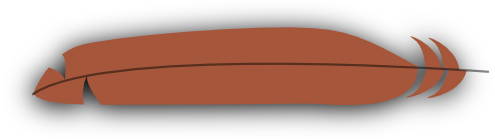
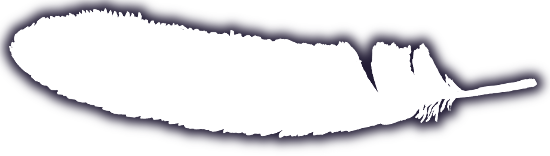
new styles, feathers and backgrounds

diff --git a/js/static.js b/js/static.js
@@ -818,7 +818,7 @@ ret\n\
             ;;(console.log (+ "loaded " (+ "images/" fn)))\n\
             (set! image-lib (cons (list fn image) image-lib))\n\
             (ctx.clearRect 0 0 screen-width screen-height)\n\
-            (set! ctx.font "normal 75pt gnuolane")\n\
+            (set! ctx.font "normal 75pt sans")\n\
             (centre-text ctx "Loading..." 240)\n\
             (centre-text\n\
              ctx\n\
@@ -901,7 +901,7 @@ ret\n\
             image.width\n\
             image.height\n\
             jitter callback image-name\n\
-            (rndf)))))\n\
+            (rndf))))\n\
 \n\
 (define (circle-button name x y r callback)\n\
   (list "circle-button" name x y r r #f callback #f (rndf)))\n\
@@ -992,14 +992,14 @@ ret\n\
    (find-image (button-image b) image-lib)\n\
    0 0)\n\
 \n\
-  (set! ctx.fillStyle "#fff")\n\
-  (set! ctx.font "bold 30pt gnuolane")\n\
+  (set! ctx.fillStyle "#221c35")\n\
+  (set! ctx.font "bold 40pt sans")\n\
 \n\
   (let ((m (ctx.measureText (button-name b))))\n\
     (ctx.fillText\n\
      (button-name b)\n\
      (- (/ (button-w b) 2) (/ m.width 2))\n\
-     (+ (/ (button-h b) 2) 5)))\n\
+     (+ (/ (button-h b) 2) 20)))\n\
   (ctx.restore))\n\
 \n\
 \n\
@@ -1153,8 +1153,8 @@ ret\n\
 \n\
 ;(define screen-width 1024)\n\
 ;(define screen-height 768)\n\
-(define screen-width (* 1024 1.3))\n\
-(define screen-height (* 768 1.3))\n\
+(define screen-width 1774)\n\
+(define screen-height 998)\n\
 \n\
 \n\
 (define load-time (js "new Date()"))\n\
@@ -1168,6 +1168,9 @@ ret\n\
 ; nightjar specific stuff\n\
 \n\
 (js ";")\n\
+\n\
+(define bg-col "#221c35")\n\
+(define highlight-col "#f3dd6d")\n\
 \n\
 (define filenames\n\
   (list\n\
@@ -1343,7 +1346,7 @@ ret\n\
 \n\
 (define nightjar-examples (build-examples (- (length photos) 1)))\n\
 \n\
-(define safe-x 0.2)\n\
+(define safe-x 0.3)\n\
 (define safe-y 0.4)\n\
 \n\
 (define (generate-image-pos)\n\
@@ -1384,23 +1387,46 @@ ret\n\
 (define (nightjar-modify-total-score v g) (list-replace g 11 v))\n\
 \n\
 (define (nightjar-heading ctx txt)\n\
-  (set! ctx.fillStyle "#000")\n\
-  (set! ctx.font "normal 75pt stefanie")\n\
+  (set! ctx.fillStyle bg-col)\n\
+  (set! ctx.font "bold 75pt sans")\n\
   (ctx.save)\n\
-  (ctx.translate 4 4)\n\
-  (wrap-text ctx txt 100 200 1000 100)\n\
+  (ctx.translate 8 8)\n\
+  (wrap-text ctx txt 100 200 1500 100)\n\
   (ctx.restore)\n\
-  (set! ctx.fillStyle "#fff")\n\
-  (set! ctx.font "normal 75pt stefanie")\n\
-  (wrap-text ctx txt 100 200 1000 100))\n\
+  (set! ctx.fillStyle highlight-col)\n\
+  (set! ctx.font "bold 75pt sans")\n\
+  (wrap-text ctx txt 100 200 1500 100))\n\
 \n\
+(define (nightjar-top-text ctx txt)\n\
+  (set! ctx.fillStyle "#fff")\n\
+  (set! ctx.font "bold 40pt sans")\n\
+  (wrap-text ctx txt 100 200 1300 70))\n\
 \n\
 (define (nightjar-text ctx txt)\n\
-  (set! ctx.font "bold 25pt gnuolane")\n\
-  (wrap-text ctx txt 100 400 1000 50))\n\
+  (set! ctx.fillStyle bg-col)\n\
+  (set! ctx.font "bold 40pt sans")\n\
+  (ctx.save)\n\
+  (ctx.translate 8 8)\n\
+  (wrap-text ctx txt 100 400 1300 70)\n\
+  (ctx.restore)\n\
+  (set! ctx.fillStyle "#fff")\n\
+  (set! ctx.font "bold 40pt sans")\n\
+  (wrap-text ctx txt 100 400 1300 70))\n\
+\n\
+(define (nightjar-small-top-text ctx txt)\n\
+  (set! ctx.fillStyle highlight-col)\n\
+  (set! ctx.font "bold 30pt sans")\n\
+  (wrap-text ctx txt 100 200 1400 70))\n\
+\n\
+(define (nightjar-small-text ctx txt)\n\
+  (set! ctx.fillStyle highlight-col)\n\
+  (set! ctx.font "bold 30pt sans")\n\
+  (wrap-text ctx txt 100 400 1400 70))\n\
+\n\
 \n\
 (define (nightjar-all-text ctx txt)\n\
-  (set! ctx.font "bold 50pt gnuolane")\n\
+  (set! ctx.fillStyle "#fff")\n\
+  (set! ctx.font "bold 50pt sans")\n\
   (wrap-text ctx txt 100 200 1000 75))\n\
 \n\
 (define (time-left c)\n\
@@ -1418,6 +1444,40 @@ ret\n\
    true)\n\
   (ctx.closePath))\n\
 \n\
+(define introbg-canvas   \n\
+  (let ((tcanvas (document.createElement "canvas")))\n\
+    (set! tcanvas.width screen-width)\n\
+    (set! tcanvas.height screen-height)\n\
+    tcanvas))\n\
+\n\
+(define introbg-ctx (introbg-canvas.getContext "2d")) \n\
+\n\
+(define (draw-random-feather)\n\
+  (introbg-ctx.drawImage \n\
+   (find-image (+ "col-feather-" (+ (random 10) 1) ".png") image-lib)\n\
+   (- (random (+ screen-width 100)) 10)\n\
+   (- (random screen-height) 200)))\n\
+\n\
+(define (splat-feathers c)\n\
+  (when (not (zero? c))\n\
+	(draw-random-feather)\n\
+	(splat-feathers (- c 1))))\n\
+ \n\
+(define (darken-feathers)\n\
+  (set! introbg-ctx.globalAlpha 0.4)\n\
+  (set! introbg-ctx.fillStyle "#000")\n\
+  (introbg-ctx.fillRect 0 0 screen-width screen-height)\n\
+  (set! introbg-ctx.globalAlpha 1))\n\
+\n\
+(define (draw-feather-array ctx x y a)\n\
+  (when (not (null? a))\n\
+	(let ((img (find-image (+ "col-feather-" (car a) ".png") image-lib))) \n\
+	  (ctx.drawImage \n\
+	   img\n\
+	   x (- y img.height))\n\
+	  (draw-feather-array ctx (+ x 80) y (cdr a)))))\n\
+\n\
+\n\
 (define (nightjar-draw-clock ctx c)\n\
   (set! ctx.lineWidth 4)\n\
   (set! ctx.strokeStyle "#000")\n\
@@ -1433,7 +1493,7 @@ ret\n\
 \n\
   (set! ctx.lineWidth 1)\n\
   (set! ctx.fillStyle "#fff")\n\
-  (set! ctx.font "normal 30pt gnuolane")\n\
+  (set! ctx.font "normal 30pt sans")\n\
   (ctx.fillText (Math.floor (- game-time-allowed (time-left c))) 54 110))\n\
 \n\
 (define (nightjar-new-game c)\n\
@@ -1491,26 +1551,75 @@ ret\n\
      (empty-nightjar-data))\n\
    (game-modify-render\n\
     (lambda (ctx)\n\
-      (nightjar-heading ctx "Where is that nightjar")\n\
-      (nightjar-text ctx "Hunt nightjars and help us with our research")\n\
+      (ctx.drawImage introbg-canvas 0 0)\n\
+      (nightjar-heading ctx "Where is that nightjar?")\n\
+      (nightjar-text ctx "Nightjars are nocturnal birds that use camouflage to say hidden during the day. See how fast you are at spotting them...")\n\
       )\n\
 \n\
     (game-modify-buttons\n\
      (list\n\
       (image-button\n\
        "Play"\n\
-       default-button-x\n\
+       (- default-button-x 300)\n\
        default-button-y\n\
        #t\n\
        (feather)\n\
        (lambda (c)\n\
          (play-sound "sound/button.wav")\n\
          (nightjar-explain-screen c)))\n\
+\n\
+      (image-button\n\
+       "The science"\n\
+       (+ default-button-x 300)\n\
+       default-button-y\n\
+       #t\n\
+       (feather)\n\
+       (lambda (c)\n\
+         (play-sound "sound/button.wav")\n\
+         (nightjar-about c)))\n\
       \n\
       \n\
       )\n\
      c)))))\n\
 \n\
+\n\
+(define (nightjar-about c)\n\
+  (let ((icon-x 150))\n\
+  (game-modify-data\n\
+   (lambda (d)\n\
+     (empty-nightjar-data))\n\
+   (game-modify-render\n\
+    (lambda (ctx)\n\
+      (nightjar-small-top-text ctx "This game was originally made to gather research data on how fast participants spotted nightjars.")\n\
+      (nightjar-small-text ctx "The research showed that predators which see in three colours (like humans and some primates) are better at spotting nightjars than predators that see in two colours (like mongooses). Prey camouflage and predator vision are in an evolutionary battle.")\n\
+      )\n\
+\n\
+    (game-modify-buttons\n\
+     (list\n\
+      (image-button\n\
+       "Quit"\n\
+       (+ default-button-x 300)\n\
+       default-button-y\n\
+       #t\n\
+       (feather)\n\
+       (lambda (c)\n\
+         (play-sound "sound/button.wav")\n\
+         (nightjar-intro c)))\n\
+\n\
+      (image-button\n\
+       "Play"\n\
+       (- default-button-x 300)\n\
+       default-button-y\n\
+       #t\n\
+       (feather)\n\
+       (lambda (c)\n\
+         (play-sound "sound/button.wav")\n\
+         (nightjar-explain-screen c)))\n\
+\n\
+      \n\
+      \n\
+      )\n\
+     c)))))\n\
 \n\
 \n\
 (define (get-n-items lst num)\n\
@@ -1527,14 +1636,21 @@ ret\n\
 (define (nightjar-explain-screen c)\n\
   (game-modify-render\n\
    (lambda (ctx)\n\
-     (nightjar-all-text ctx "There is one nightjar hidden in every photo, touch it as soon as you see it"))\n\
+     (set! ctx.fillStyle "#fff")\n\
+     (set! ctx.font "bold 40pt sans")\n\
+     (draw-feather-array ctx 10 950 (list 3 1 5 6))\n\
+     (draw-feather-array ctx 1300 950 (list 7 10 4 2))\n\
+     (wrap-text ctx "There is one nightjar hidden in every photo, touch it as soon as you see it" 100 100 1300 70)\n\
+     (ctx.drawImage (find-image "nightjar.jpg" image-lib) 470 200))\n\
+\n\
+\n\
    (game-modify-buttons\n\
     (list\n\
 \n\
      (image-button\n\
       "Start playing"\n\
       default-button-x\n\
-      default-button-y\n\
+      (+ default-button-y 100)\n\
       #t\n\
       (feather)\n\
       (lambda (c)\n\
@@ -1784,13 +1900,23 @@ ret\n\
          (nightjar-intro c)))\n\
       ) c))))\n\
 \n\
-(set! ctx.font "normal 75pt gnuolane")\n\
+(set! ctx.font "normal 75pt sans")\n\
 (centre-text ctx "Loading..." 240)\n\
 \n\
 (load-images!\n\
  (list "feather1.png"\n\
        "feather2.png"\n\
        "feather3.png"\n\
+       "col-feather-1.png"\n\
+       "col-feather-2.png"\n\
+       "col-feather-3.png"\n\
+       "col-feather-4.png"\n\
+       "col-feather-5.png"\n\
+       "col-feather-6.png"\n\
+       "col-feather-7.png"\n\
+       "col-feather-8.png"\n\
+       "col-feather-9.png"\n\
+       "col-feather-10.png"\n\
        "quit.png"\n\
        "right.png"\n\
        "wrong.png"\n\
@@ -1799,8 +1925,10 @@ ret\n\
        "exeter.png"\n\
        "foam.png"\n\
        "sensory-ecology.png"\n\
-       "back.png")\n\
+       "nightjar.jpg")\n\
  (lambda ()\n\
+   (splat-feathers 1000)\n\
+   (darken-feathers)\n\
    (start-game canvas ctx)))\n\
 \n\
 ');

diff --git a/css/style.css b/css/style.css
@@ -1,19 +1,9 @@
-@font-face {
-    font-family: 'stefanie';
-    src: url('../fonts/StefanieDots.ttf');
-}
-
-@font-face {
-    font-family: 'gnuolane';
-    src: url('../fonts/gnuolane.ttf');
-}
-
 html, body {
-    font-family: 'gnuolane';
+    font-family: 'Arial, Helvetica, sans-serif';
     color: #ffffff;
     font-size:  20;
     background: #000;
-    // cursor: url(images/mouse.png), default;
+    cursor: url(images/mouse.png), default;
     height: 100%;
     min-height: 100%;
 }
@@ -21,5 +11,5 @@ html, body {
 #canvas {
     width: 60%;
     min-width: 800px;
-    background: url(../images/bg.png);
+    background: #221c35;
 }

diff --git a/index.html b/index.html
@@ -8,8 +8,8 @@
     <div>
       <canvas id="canvas" 
 	      style="position: absolute; left: 0px; top: 0px; width: 100vw; height: 100vh;"
-	      width="1331px" height="998px"></canvas>
-      
+	      width="1774px" height="998px"></canvas>
+      <!-- 1331px -->
       <div style="display:none;">
         <h2>output</h2>
         <pre><div id="output"></div></pre>
